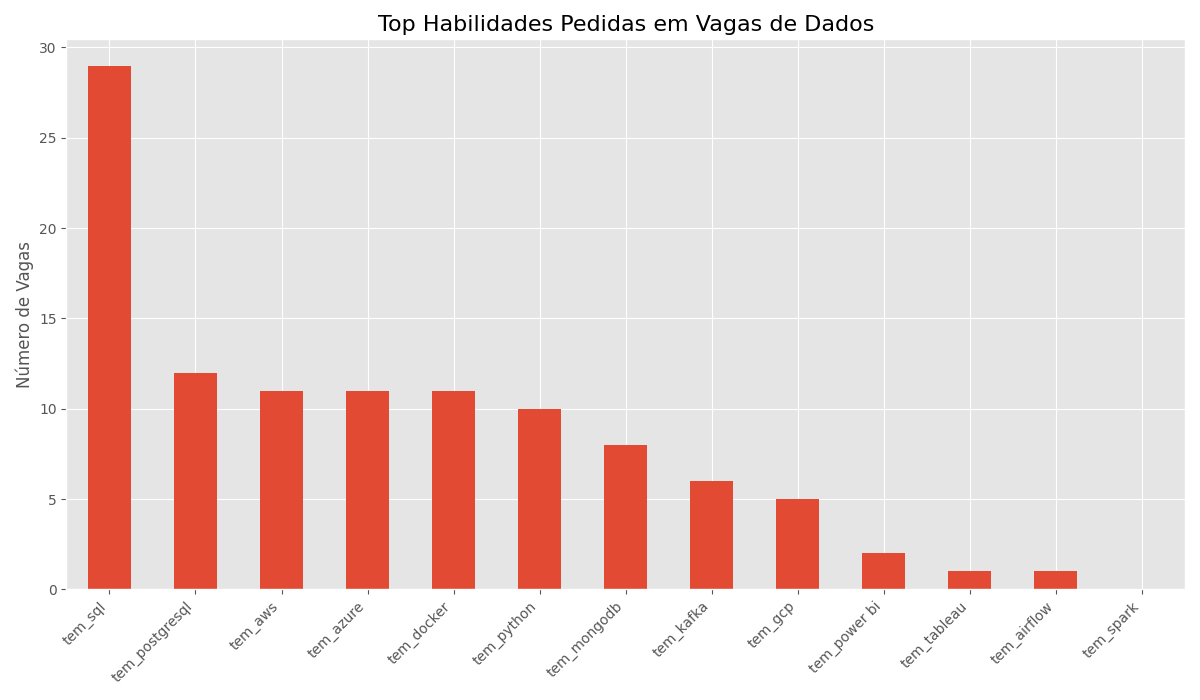
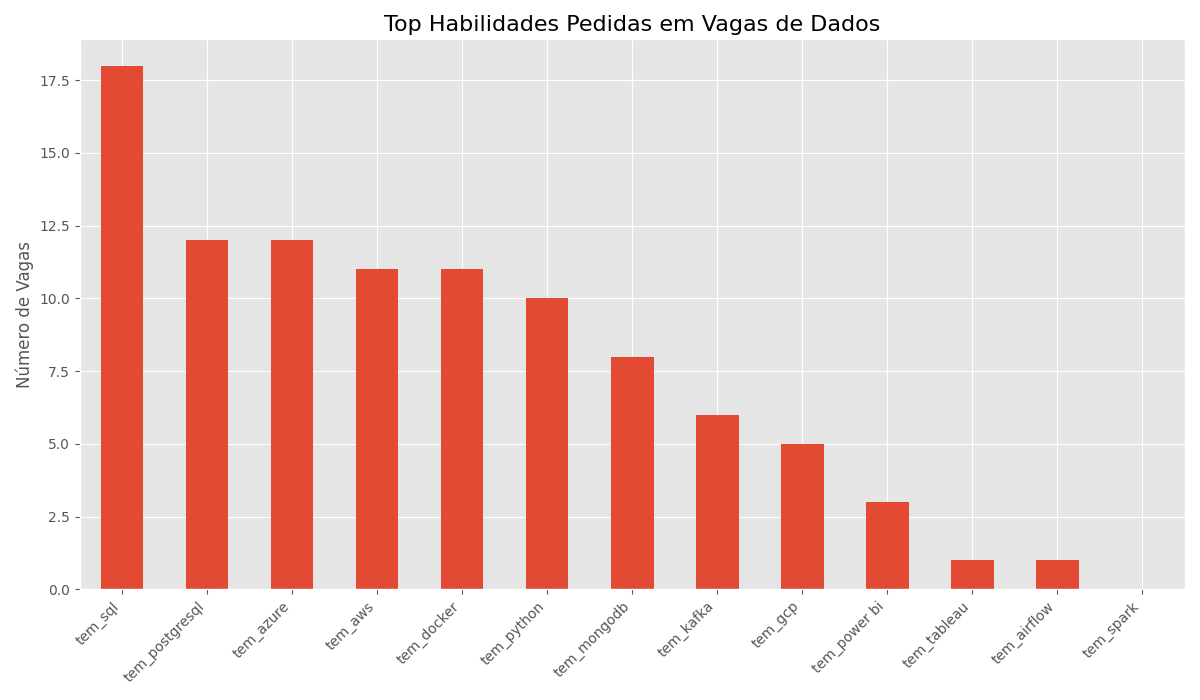
Utilizando Biblioteca Spacy

diff --git a/01_extracao.py b/01_extracao.py
@@ -3,6 +3,10 @@ from bs4 import BeautifulSoup
 import pandas as pd
 import time
 
+headers = {
+    'User-Agent': 'Mozilla/5.0 (Windows NT 10.0; Win64; x64) AppleWebKit/537.36 (KHTML, like Gecko) Chrome/91.0.4472.124 Safari/537.36'
+}
+
 print("Iniciando a extração de vagas...")
 
 dados_vagas = []
@@ -12,34 +16,44 @@ for i in range(1, 4):
     
     print(f"Buscando na página {i}...")
 
-    response = requests.get(url)
+    try:
+        response = requests.get(url, headers=headers, timeout=15)
+        response.raise_for_status()
 
-    if response.status_code == 200:
         soup = BeautifulSoup(response.content, 'html.parser')
         cards_vagas = soup.find_all('div', class_='cell-list')
 
         for vaga in cards_vagas:
+            # Mantendo os seletores da lista de vagas que já funcionavam
             tag_titulo = vaga.find('h3')
-            spans = vaga.find_all('span') 
             tag_link = vaga.find('a')
+            icon_empresa = vaga.find('i', class_='fa-briefcase')
+            tag_empresa_span = icon_empresa.parent if icon_empresa else None
+            icon_local = vaga.find('i', class_='fa-map-marker-alt')
+            tag_local_span = icon_local.parent if icon_local else None
 
-            
-            if tag_titulo and tag_link and len(spans) >= 3:
-              
+            if tag_titulo and tag_link and tag_empresa_span and tag_local_span:
                 titulo = tag_titulo.text.strip()
-                empresa = spans[1].text.strip()  
-                local = spans[2].text.strip()   
+                empresa = tag_empresa_span.text.strip()
+                local = tag_local_span.text.strip()
                 link_vaga = "https://programathor.com.br" + tag_link['href']
                 
-                response_vaga = requests.get(link_vaga)
-                if response_vaga.status_code == 200:
+                try:
+                    response_vaga = requests.get(link_vaga, headers=headers, timeout=15)
+                    response_vaga.raise_for_status()
                     soup_vaga = BeautifulSoup(response_vaga.content, 'html.parser')
-                    tag_descricao = soup_vaga.find('div', class_='wrapper-content-job-show')
+                    
+                    # --- A CORREÇÃO FINAL E DEFINITIVA ESTÁ AQUI ---
+                    # Este é o seletor exato baseado no HTML que você enviou.
+                    tag_descricao = soup_vaga.find('div', class_='line-height-2-4')
+                    
                     if tag_descricao:
-                        descricao = tag_descricao.text.strip()
+                        descricao = tag_descricao.get_text(separator=' ', strip=True)
                     else:
-                        descricao = "Descrição não encontrada."
-                else:
+                        descricao = "Descrição detalhada não encontrada."
+                
+                except requests.exceptions.RequestException as e:
+                    print(f"--> ERRO ao acessar o link da vaga {titulo}: {e}")
                     descricao = "Não foi possível obter a descrição."
 
                 dados_vagas.append({
@@ -48,14 +62,13 @@ for i in range(1, 4):
                     'local': local,
                     'descricao': descricao
                 })
-            
             else:
                 print("--> AVISO: Um card de vaga foi ignorado por não ter o formato esperado.")
 
             time.sleep(1)
 
-    else:
-        print(f"Erro ao acessar a página {i}. Status code: {response.status_code}")
+    except requests.exceptions.RequestException as e:
+        print(f"--> ERRO FATAL ao acessar a página {i}: {e}. Pulando para a próxima página.")
 
 df = pd.DataFrame(dados_vagas)
 df.to_csv('vagas_brutas.csv', index=False)

diff --git a/02_transformacao.py b/02_transformacao.py
@@ -1,30 +1,51 @@
 import pandas as pd
 import re
+import spacy
+from spacy.matcher import PhraseMatcher
 
 print("Iniciando a transformação dos dados...")
 
+print("Carregando modelo de NLP (spaCy)...")
+nlp = spacy.load("pt_core_news_sm")
+
 df = pd.read_csv('vagas_brutas.csv')
 
+df = df.dropna(subset=['descricao']) 
 df = df.drop_duplicates(subset=['titulo', 'empresa', 'descricao'])
-
-df['descricao'] = df['descricao'].apply(lambda texto: re.sub(r'\s+', ' ', str(texto)).strip())
-
-df['descricao_limpa'] = df['descricao'].str.lower()
+df['descricao_limpa'] = df['descricao'].apply(lambda texto: re.sub(r'\s+', ' ', str(texto)).strip())
 
 skills_list = [
     'python', 'sql', 'power bi', 'tableau', 'aws', 'azure', 'gcp', 
     'spark', 'airflow', 'docker', 'kafka', 'mongodb', 'postgresql'
 ]
 
+
+matcher = PhraseMatcher(nlp.vocab, attr='LOWER')
+
+patterns = [nlp.make_doc(text) for text in skills_list]
+matcher.add("SKILL_MATCHER", patterns)
+
+results = []
+
+print("Processando descrições com o modelo de NLP para extrair skills...")
+for doc in nlp.pipe(df['descricao_limpa'].str.lower(), disable=["parser", "ner"]):
+    matches = matcher(doc)
+    
+    found_skills = set()
+    for match_id, start, end in matches:
+        
+        span = doc[start:end]
+        found_skills.add(span.text)
+    
+    results.append(found_skills)
+
+
 for skill in skills_list:
-    df[f'tem_{skill}'] = df['descricao_limpa'].apply(lambda x: 1 if skill in x else 0)
-
-
-df = df.drop(columns=['descricao_limpa'])
+    df[f'tem_{skill}'] = [1 if skill in found_set else 0 for found_set in results]
 
 
 df.to_csv('vagas_processadas.csv', index=False)
 
-print("\nTransformação finalizada! Dados limpos e enriquecidos salvos em 'vagas_processadas.csv'.")
+print("\nTransformação finalizada! Dados limpos e enriquecidos com NLP salvos em 'vagas_processadas.csv'.")
 print("Veja as primeiras linhas do resultado corrigido:")
 print(df.head())

diff --git a/README.md b/README.md
@@ -1,66 +1,73 @@
-# 📊 Pipeline de Análise de Vagas para Engenharia de Dados
+# 🧠 Pipeline de ETL com NLP para Análise de Vagas de Dados
 
 ![Status](https://img.shields.io/badge/status-concluído-brightgreen)
 ![Python](https://img.shields.io/badge/python-3.9%2B-blue)
+![spaCy](https://img.shields.io/badge/NLP-spaCy-blueviolet)
 
 ## 🎯 Objetivo
 
-Este projeto implementa um pipeline de dados **ETL (Extract, Transform, Load)** completo, projetado para automatizar a coleta, limpeza e análise de vagas de emprego na área de Engenharia de Dados. O objetivo é transformar dados não estruturados da web em insights acionáveis sobre as tecnologias e habilidades mais demandadas pelo mercado atualmente.
+Este projeto implementa um pipeline de dados **ETL (Extract, Transform, Load)** completo que utiliza técnicas de **Inteligência Artificial** para analisar o mercado de trabalho de Engenharia de Dados. O objetivo é converter dados textuais não estruturados, extraídos da web, em insights estruturados e acionáveis sobre as competências técnicas mais demandadas pelas empresas.
 
 ## ✨ Resultado Final
 
-O pipeline processa os dados coletados e gera uma visualização das habilidades técnicas mais mencionadas nas descrições das vagas, oferecendo um panorama claro das tendências do setor.
+O pipeline processa milhares de palavras das descrições das vagas e, aplicando um modelo de NLP, gera uma visualização clara das tecnologias e habilidades mais requisitadas, oferecendo um panorama estratégico das tendências do setor.
 
 ![Gráfico de Top Skills](top_skills.png)
 
 ## 🏛 Arquitetura do Pipeline
 
-O projeto segue a clássica arquitetura ETL, dividida em quatro etapas principais:
+O projeto segue a clássica arquitetura ETL, onde a etapa de Transformação é enriquecida com um componente de Inteligência Artificial.
 
 1.  **`Extração (Extract)`**
-    * Um script de web scraping (`01_extracao.py`) navega pelo portal de empregos **Programathor** para coletar informações brutas das vagas, como título, empresa, local e a descrição completa.
-    * **Ferramentas:** `Requests`, `BeautifulSoup4`.
+
+    - Um script de web scraping ético (`01_extracao.py`) navega pelo portal **Programathor** para coletar dados públicos de vagas (título, empresa, local e a descrição completa), utilizando pausas e headers para não sobrecarregar o servidor.
+    - **Ferramentas:** `Requests`, `BeautifulSoup4`.
 
 2.  **`Transformação (Transform)`**
-    * O script `02_transformacao.py` recebe os dados brutos e realiza uma limpeza profunda, padronizando o texto e corrigindo inconsistências.
-    * Nesta fase, os dados são enriquecidos: uma análise da descrição de cada vaga identifica a presença de *skills* técnicas chave (ex: Python, AWS, SQL, Spark), criando novas colunas para análise quantitativa.
-    * **Ferramentas:** `Pandas`, `re` (Expressões Regulares).
+
+    - Esta é a fase central do projeto. O script `02_transformacao.py` recebe os dados brutos e realiza a limpeza e padronização com Pandas.
+    - Em seguida, aplicamos um modelo de **Processamento de Linguagem Natural (NLP)** com a biblioteca **`spaCy`** para realizar a **Extração de Entidades** a partir do texto não estruturado das descrições. Um `PhraseMatcher` otimizado é utilizado para identificar e extrair um dicionário customizado de _skills_, transformando texto livre em features quantificáveis para análise.
+    - **Ferramentas:** `Pandas`, `spaCy` (NLP), `re` (Expressões Regulares).
 
 3.  **`Carga (Load)`**
-    * Os dados limpos e enriquecidos são carregados pelo script `03_carga.py` para um banco de dados relacional.
-    * **Ferramentas:** `SQLite`.
+
+    - Os dados limpos e enriquecidos com as features de IA são carregados pelo script `03_carga.py` para um banco de dados relacional, garantindo o armazenamento persistente.
+    - **Ferramentas:** `SQLite`.
 
 4.  **`Análise e Visualização (Analyze & Visualize)`**
-    * Um notebook (`analise.ipynb`) conecta-se ao banco de dados para realizar consultas e agregar os dados, contando a frequência de cada habilidade.
-    * O resultado da análise é exibido em um gráfico de barras, facilitando a interpretação dos resultados.
-    * **Ferramentas:** `Jupyter Lab`, `Matplotlib`, `Pandas`.
+    - Um notebook (`analise.ipynb`) conecta-se ao banco de dados para realizar consultas e agregar os dados, contando a frequência de cada habilidade extraída pelo modelo de NLP.
+    - O resultado da análise é exibido em um gráfico de barras, facilitando a interpretação dos insights.
+    - **Ferramentas:** `Jupyter Lab`, `Matplotlib`, `Pandas`.
 
-## 🛠 Tecnologias Utilizadas
+## 🛠 Tecnologias e Habilidades
 
-* **Linguagem de Programação:** Python
-* **Bibliotecas de Dados:** Pandas, Matplotlib
-* **Web Scraping:** Requests, BeautifulSoup4
-* **Banco de Dados:** SQLite
-* **Ambiente e Análise:** venv, Jupyter Lab
-* **Controle de Versão:** Git & GitHub
+- **Engenharia de Dados:** Desenvolvimento de Pipelines ETL, Web Scraping, Limpeza e Estruturação de Dados.
+- **Inteligência Artificial:** Processamento de Linguagem Natural (NLP) e Extração de Entidades com **`spaCy`**.
+- **Linguagem:** Python.
+- **Bibliotecas:** Pandas, Matplotlib, Requests, BeautifulSoup4, spaCy.
+- **Banco de Dados:** SQLite.
+- **Ferramentas:** Git, GitHub, Ambientes Virtuais (`venv`), Jupyter Lab.
 
 ## 🚀 Como Executar o Projeto
 
 Siga os passos abaixo para executar o pipeline em seu ambiente local.
 
 **Pré-requisitos:**
-* Python 3.9+
-* Git
+
+- Python 3.9+
+- Git
 
 **Passos:**
 
 1.  **Clone o repositório:**
+
     ```bash
     git clone [https://github.com/joaosousa021/pipeline-analise-vagas.git](https://github.com/joaosousa021/pipeline-analise-vagas.git)
     cd pipeline-analise-vagas
     ```
 
 2.  **Crie e ative o ambiente virtual:**
+
     ```bash
     python -m venv venv
     # No Windows:
@@ -69,23 +76,25 @@ Siga os passos abaixo para executar o pipeline em seu ambiente local.
     source venv/bin/activate
     ```
 
-3.  **Instale as dependências a partir do arquivo `requirements.txt`:**
+3.  **Instale as dependências (incluindo o modelo spaCy):**
+
     ```bash
     pip install -r requirements.txt
+    python -m spacy download pt_core_news_sm
     ```
 
 4.  **Execute o pipeline ETL completo:**
+
     ```bash
     python 01_extracao.py
     python 02_transformacao.py
     python 03_carga.py
     ```
-    *Ao final, os arquivos `vagas_brutas.csv`, `vagas_processadas.csv` e `vagas.db` serão gerados.*
 
 5.  **Visualize a análise:**
-    * Inicie o Jupyter Lab:
-        ```bash
-        python -m jupyter lab
-        ```
-    * No seu navegador, abra o arquivo `analise.ipynb`.
-    * Para executar cada passo da análise, selecione uma célula e pressione **`Shift + Enter`**. A última célula irá gerar o gráfico `top_skills.png`.
+    - Inicie o Jupyter Lab:
+      ```bash
+      python -m jupyter lab
+      ```
+    - No seu navegador, abra o arquivo `analise.ipynb`.
+    - Para executar cada passo da análise, selecione uma célula e pressione **`Shift + Enter`**. A última célula irá gerar o gráfico.
